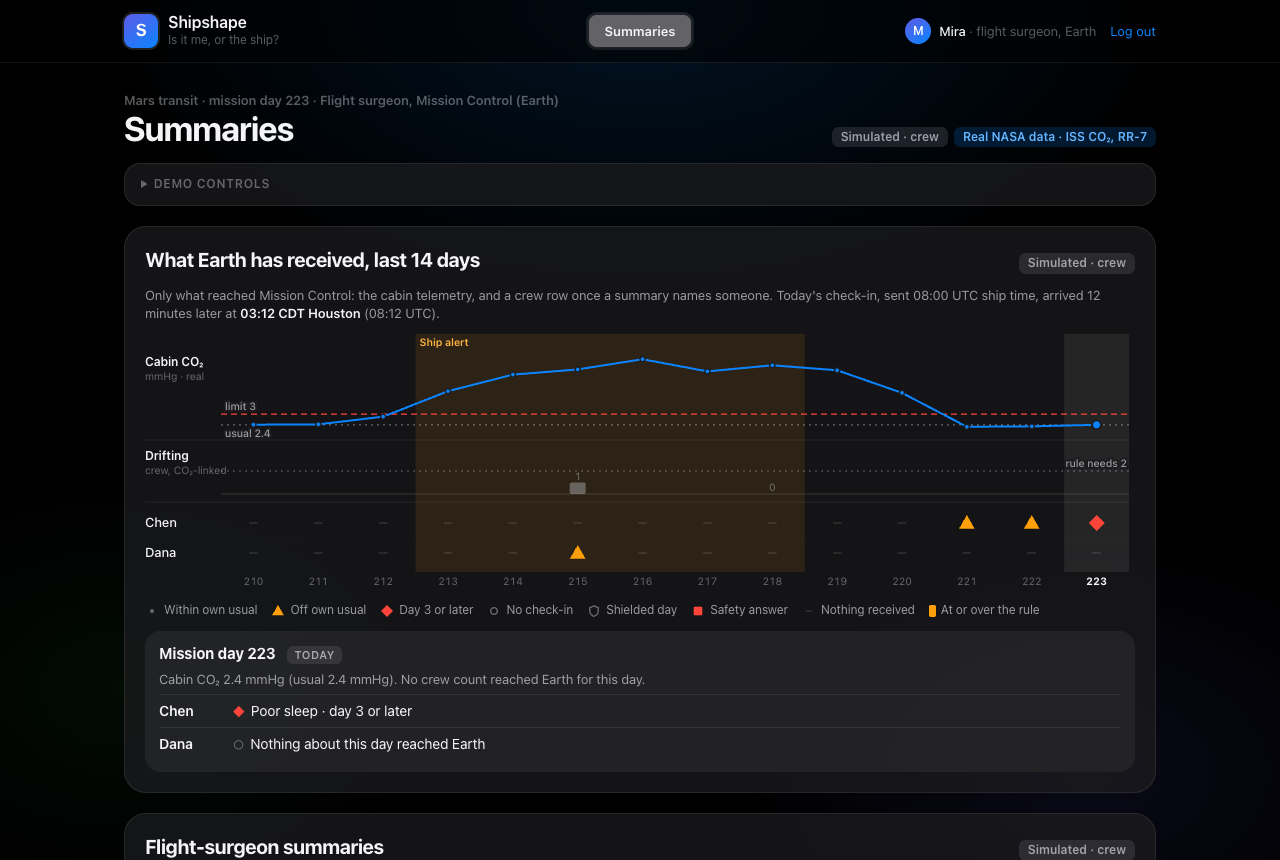
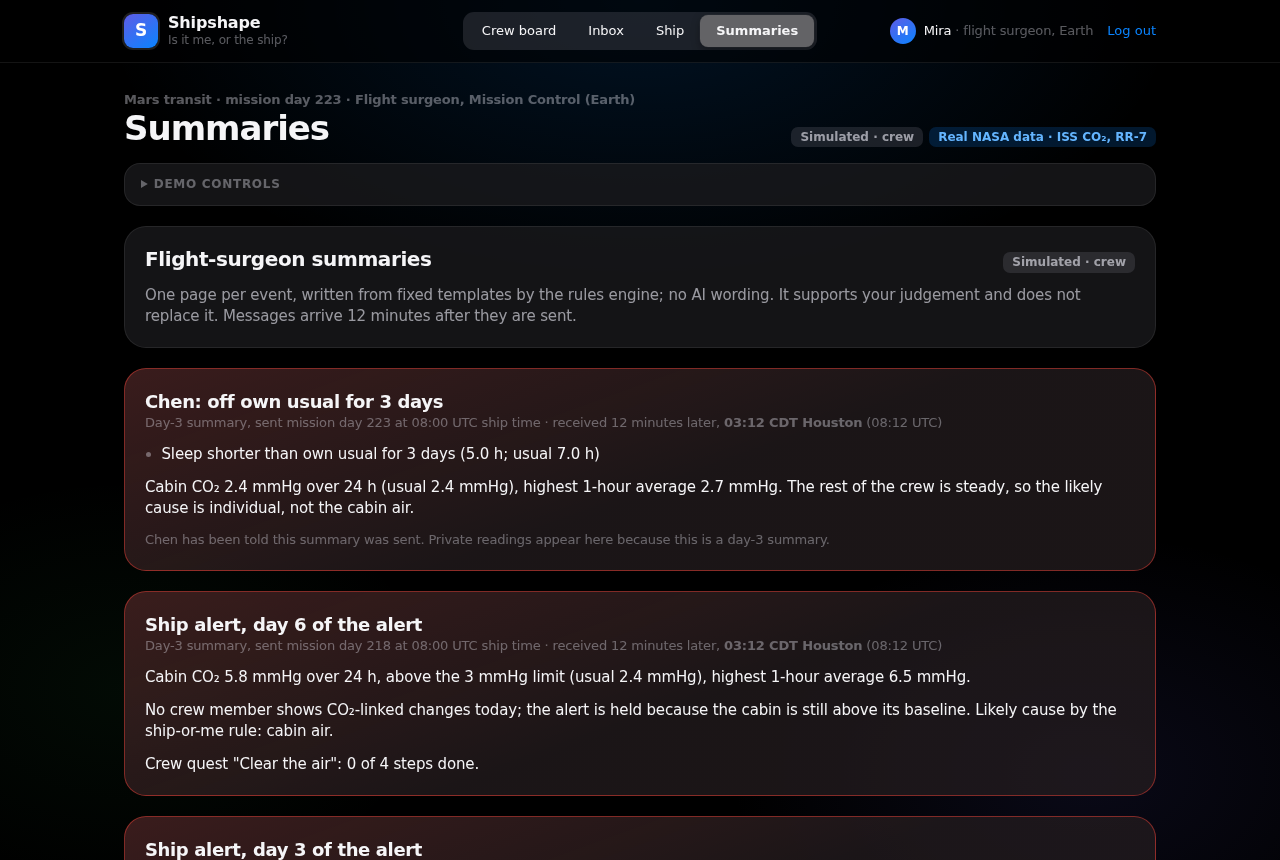
docs update, minor bug fix

diff --git a/src/ui/CrewBoard.tsx b/src/ui/CrewBoard.tsx
@@ -1,12 +1,12 @@
 import { RULES } from '../engine/config.ts'
 import { cabinLevel } from '../dashboard/model.ts'
-import { boardPerson, privateCount, shipFollowUp, type ShipFollowUp } from '../engine/privacy.ts'
+import { privateCount, shipFollowUp, type ShipFollowUp } from '../engine/privacy.ts'
 import type { DayResult } from '../engine/types.ts'
 import { useStore } from '../state.tsx'
 import { Card, Mark, Origin } from './bits.tsx'
 import { CrewTimeline } from './CrewTimeline.tsx'
 import { QuestCard } from './QuestCard.tsx'
-import { boardWords, mmHg } from './text.ts'
+import { mmHg } from './text.ts'
 import { XpStrip } from './XpStrip.tsx'
 
 export function ShipBanner({ r, onOpen, followUp }: { r: DayResult; onOpen?: () => void; followUp?: ShipFollowUp | null }) {
@@ -59,48 +59,9 @@ export function ShipBanner({ r, onOpen, followUp }: { r: DayResult; onOpen?: () 
   )
 }
 
-/** Today's board for a crew member: shared indicators for everyone, today only, as before. */
-function TodayOnBoard({ me }: { me: string }) {
-  const s = useStore()
-  const r = s.todayResult
-  const shields = s.data.crew.shieldDays.filter((d) => d.day === s.today)
-  return (
-    <section className="today" aria-label="Today on the crew board">
-      <h3>Today on the board</h3>
-      <ul>
-        {s.data.crew.crew.map((c) => {
-          const p = boardPerson(r.people[c.id])
-          const words = boardWords(p.off, p.symptoms)
-          const shield = shields.find((d) => d.crewIds.includes(c.id))
-          return (
-            <li key={c.id} className={p.checkedIn && words.length ? 'today-watch' : undefined}>
-              <span className="tl-person">
-                {c.name}
-                {me === c.id && <span className="you"> (you)</span>}
-              </span>
-              <span className="today-words">
-                {!p.checkedIn ? (
-                  <Mark tone="idle">{shield ? `${shield.label} day, shielded` : 'No check-in yet'}</Mark>
-                ) : words.length === 0 ? (
-                  <Mark tone="ok">OK</Mark>
-                ) : (
-                  <Mark tone="watch">{words.map((w) => w.word).join(', ')}</Mark>
-                )}
-                {p.shipAffected && <span className="fine"> · likely the ship</span>}
-                {p.live && <Origin kind="live">entered in this browser</Origin>}
-              </span>
-            </li>
-          )
-        })}
-      </ul>
-    </section>
-  )
-}
-
 export function CrewBoard() {
   const s = useStore()
   const r = s.todayResult
-  const me = s.role.kind === 'crew' ? s.role.crewId : null
   const priv = privateCount(r)
 
   return (
@@ -111,16 +72,14 @@ export function CrewBoard() {
         title="Crew timeline, last 14 days"
         aside={<Origin kind="simulated">crew · shared indicators only</Origin>}
       >
-        {me && <p className="muted">You see the cabin air, how many crew drift, and your own row. Nobody else's history is shown to you.</p>}
         <CrewTimeline viewer={s.role} />
-        {me && <TodayOnBoard me={me} />}
         <p className="private-count">
           <span aria-hidden="true">🔒</span> Mood and stress: {priv.off} of {priv.of} crew are off their own usual today. Counts only, never names.
         </p>
       </Card>
 
       <QuestCard />
-      <XpStrip crewId={me} />
+      <XpStrip crewId={null} />
     </div>
   )
 }

diff --git a/src/ui/MeView.tsx b/src/ui/MeView.tsx
@@ -5,6 +5,7 @@ import type { IndicatorKey, PersonStatus } from '../engine/types.ts'
 import { useStore } from '../state.tsx'
 import { Card, Mark, Origin } from './bits.tsx'
 import { QuestCard } from './QuestCard.tsx'
+import { hrefOf } from '../auth/paths.ts'
 import { LineChart } from './charts.tsx'
 import { delayText, fmt, indicatorLine } from './text.ts'
 import { XpStrip } from './XpStrip.tsx'
@@ -68,9 +69,9 @@ function StatusCard({ me }: { me: PersonStatus }) {
       {me.attribution === 'ship' && (
         <p>
           Most of the crew show the same kind of change while cabin CO₂ is above its usual level.{' '}
-          <button type="button" className="link" onClick={() => s.setScreen('ship')}>
-            See the ship alert
-          </button>
+          <a className="link" href={hrefOf('dashboard', import.meta.env.BASE_URL, `?day=${s.today}`)}>
+            See the cabin air on my dashboard
+          </a>
         </p>
       )}
       {me.attribution === 'me' && (

diff --git a/src/styles.css b/src/styles.css
@@ -848,13 +848,11 @@ input {
   font-size: 13px;
   color: var(--ink-2);
 }
-.tl-people,
-.today ul {
+.tl-people {
   display: flex;
   flex-direction: column;
 }
-.tl-people li,
-.today li {
+.tl-people li {
   display: grid;
   grid-template-columns: 64px 1fr;
   gap: 10px;
@@ -865,25 +863,6 @@ input {
 }
 .tl-person {
   font-weight: 600;
-}
-.today h3 {
-  font-size: 13px;
-  font-weight: 600;
-  color: var(--ink-3);
-  text-transform: uppercase;
-  letter-spacing: 0.05em;
-  margin-bottom: 4px;
-}
-.today .today-watch .today-words {
-  color: var(--watch-ink);
-}
-.today-words .origin {
-  margin-left: 6px;
-}
-.you {
-  font-weight: 400;
-  color: var(--ink-3);
-  font-size: 13px;
 }
 .private-count {
   padding: 12px 14px;

diff --git a/docs/AI_USE_LOG.md b/docs/AI_USE_LOG.md
@@ -14,7 +14,7 @@
 | 15 Nov 2026 | Claude Code (Claude Opus 5.5) | Branch `judge-fixes`, after an independent AI judge review and an AI agent's read of rival entries' public repos (to choose what to fix; nothing copied): judge's tour and public challenge page; crew app views per role; slow-change check against the starting normal; backtest masking, slow-decline and under-reporting scenarios (a "late in the alert" rule was tried and dropped on that evidence); one set of demo days on both pages; evidence line on the Ship screen; check-in sliders that start unset; Bone & muscle panel; CO₂ data notes; sources found by web search listed as unchecked; tests, docs, screenshots | Team review pending |
 | 15 Nov 2026 | Claude Code (Claude Opus 5.5) | After the team opened the sources: their claims on screen (CO₂ context on the Ship screen, the PVT-B lapse at 355 ms, NASA's bone-loss and daily-exercise figures), `docs/CITATIONS.md` updated, the live link in the README; merging `judge-fixes` into `main` | Team review pending |
 | 15 Nov 2026 | Claude Code (Claude Opus 5.5) | Branch `dashboard-trim`: Cabin air and Bone & muscle panels removed from `/dashboard` (with the CO₂ chart sheet only they opened); body stage capped at 660px wide, skeleton size unchanged; docs | Team review pending |
-| 15 Nov 2026 | Claude Code (Claude Opus 5.5) | Access: "Logged in as" label removed from `/dashboard`; new `/checkin` page (check-in and Me) for crew; `/app` closed to astronauts; the flight surgeon given the crew medical officer's access plus summaries (summaries-only timeline removed); tests, SPEC, README | Team review pending |
+| 15 Nov 2026 | Claude Code (Claude Opus 5.5) | Access: "Logged in as" label removed from `/dashboard`; new `/checkin` page (check-in and Me) for crew; `/app` closed to astronauts; the flight surgeon given the crew medical officer's access plus summaries (summaries-only timeline removed); tests, SPEC, README. Review pass: Me-screen ship link now points to the dashboard, crew-only board code removed, `docs/screenshots/earth-day-223.png` retaken | Team review pending |
 
 ## What AI does not do in the product
 

diff --git a/README.md b/README.md
@@ -24,7 +24,7 @@ Built for the NASA Space Apps Challenge 2026, "Create Health Monitoring Software
 | | |
 | --- | --- |
 | ![The judge's tour on the start page](docs/screenshots/tour.png) | ![Day 213: likely the ship, with the real ISS CO₂ trace](docs/screenshots/ship-day-213.png) |
-| ![Day 221: Chen's dashboard, likely him](docs/screenshots/dashboard-day-221.png) | ![Day 223: what reached the flight surgeon on Earth](docs/screenshots/earth-day-223.png) |
+| ![Day 221: Chen's dashboard, likely him](docs/screenshots/dashboard-day-221.png) | ![Day 223: Chen's day-3 summary reaches the flight surgeon on Earth](docs/screenshots/earth-day-223.png) |
 
 Not a medical device: it says "likely", never diagnoses, and supports the flight surgeon rather than replacing one. No AI model runs in the product, there is no leaderboard and no backend; the PIN login runs in the browser only (see below). AI use during development is in [docs/AI_USE_LOG.md](docs/AI_USE_LOG.md).
 
